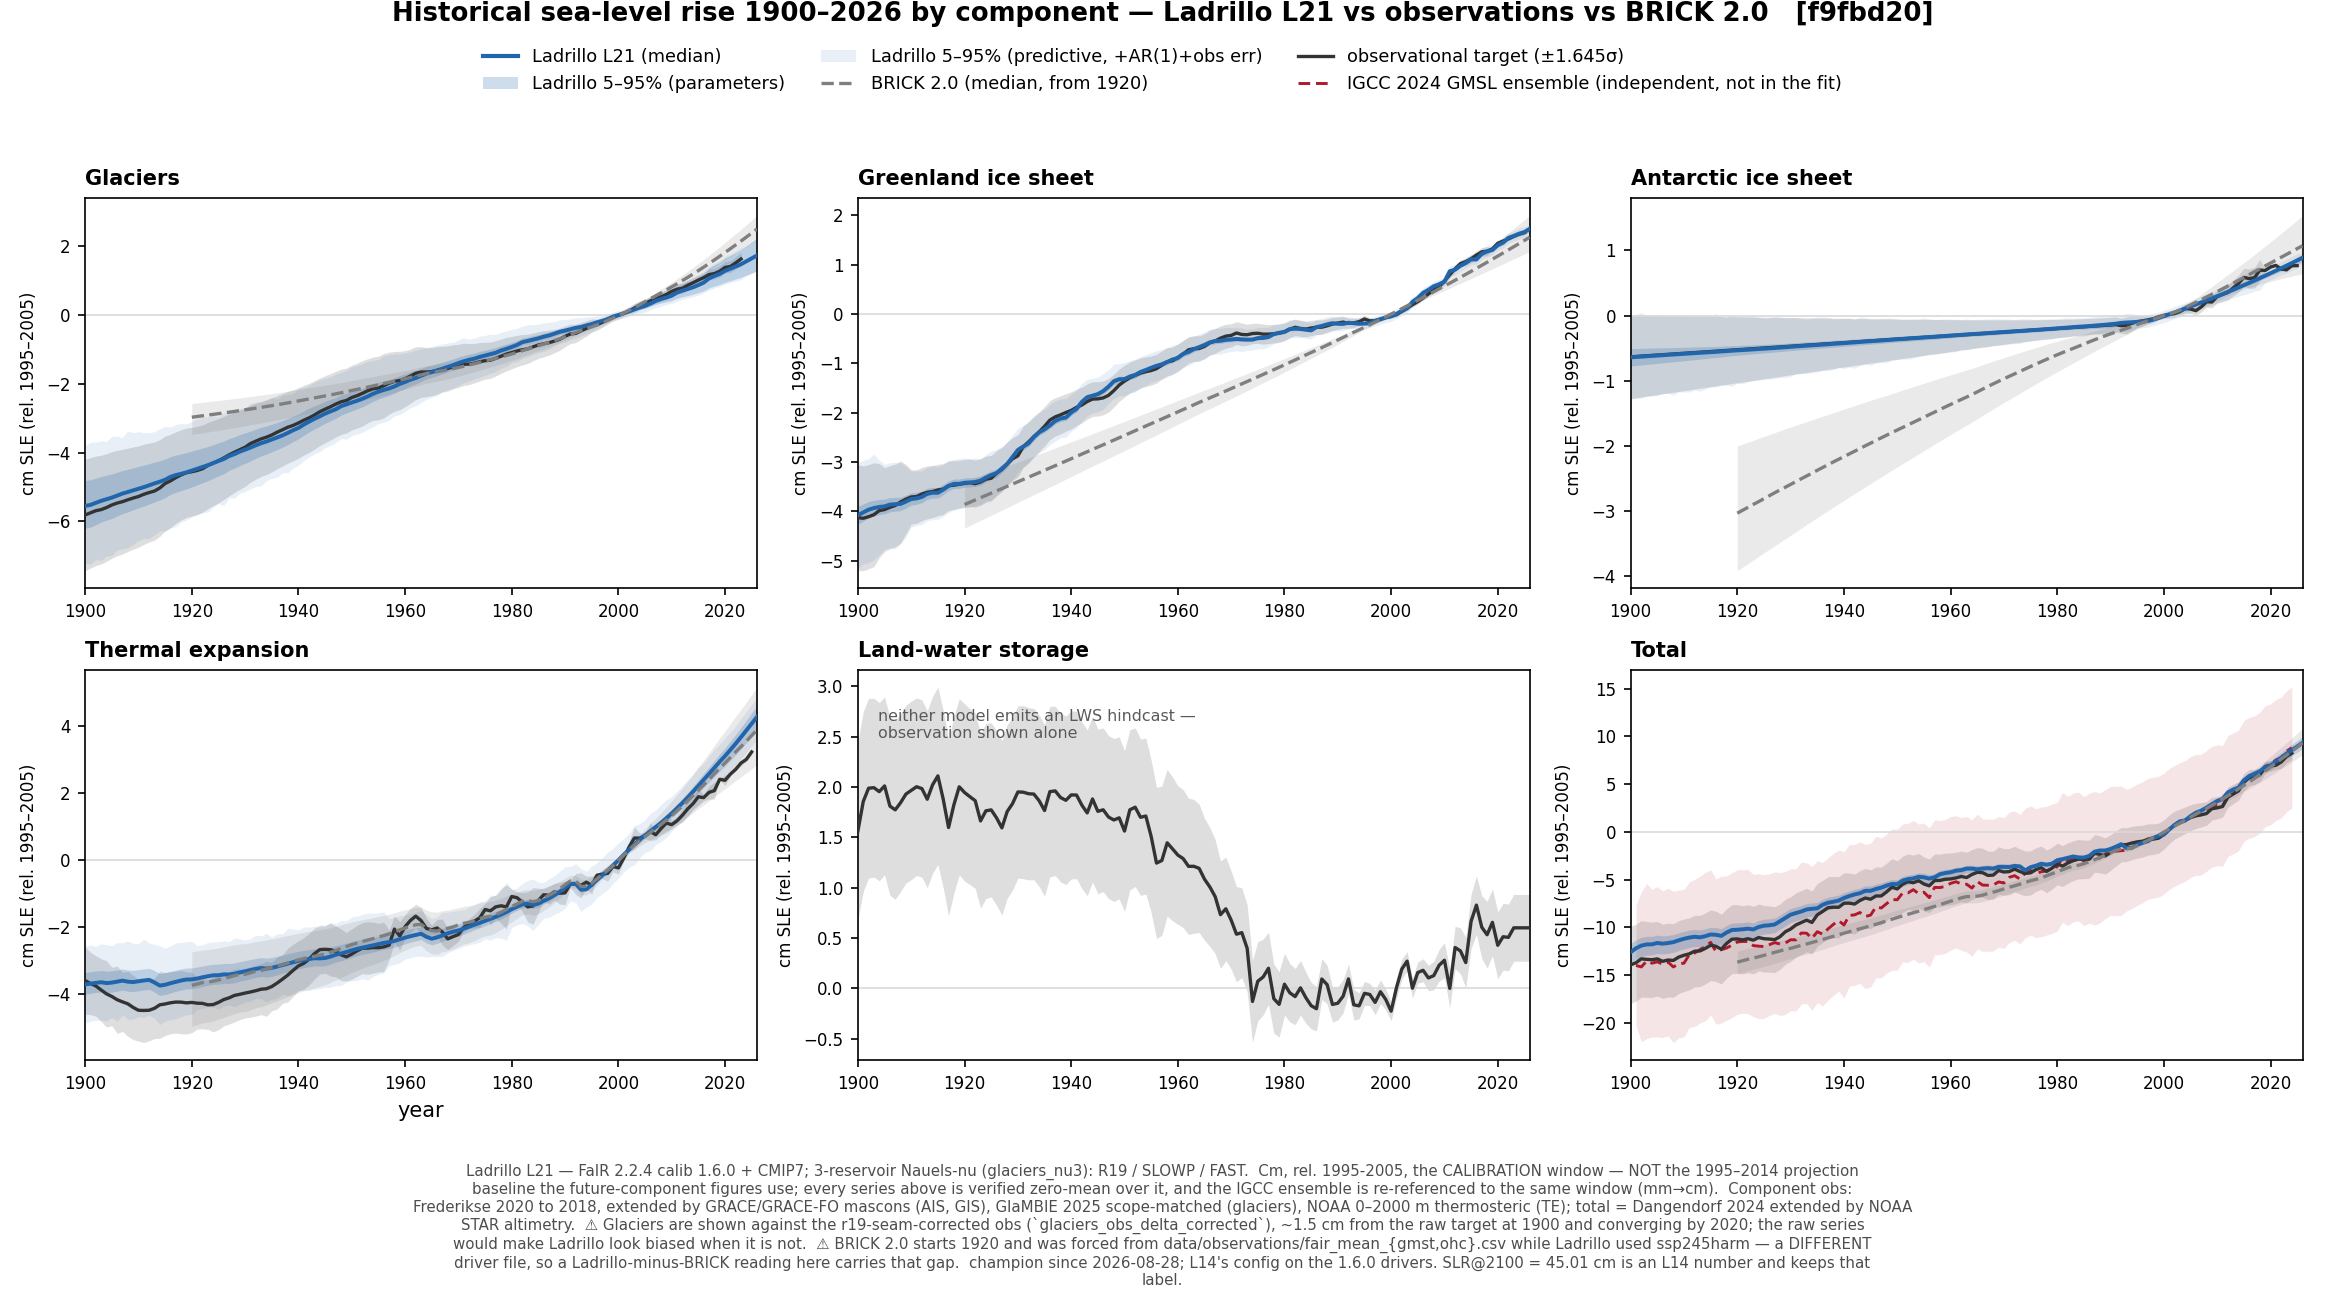
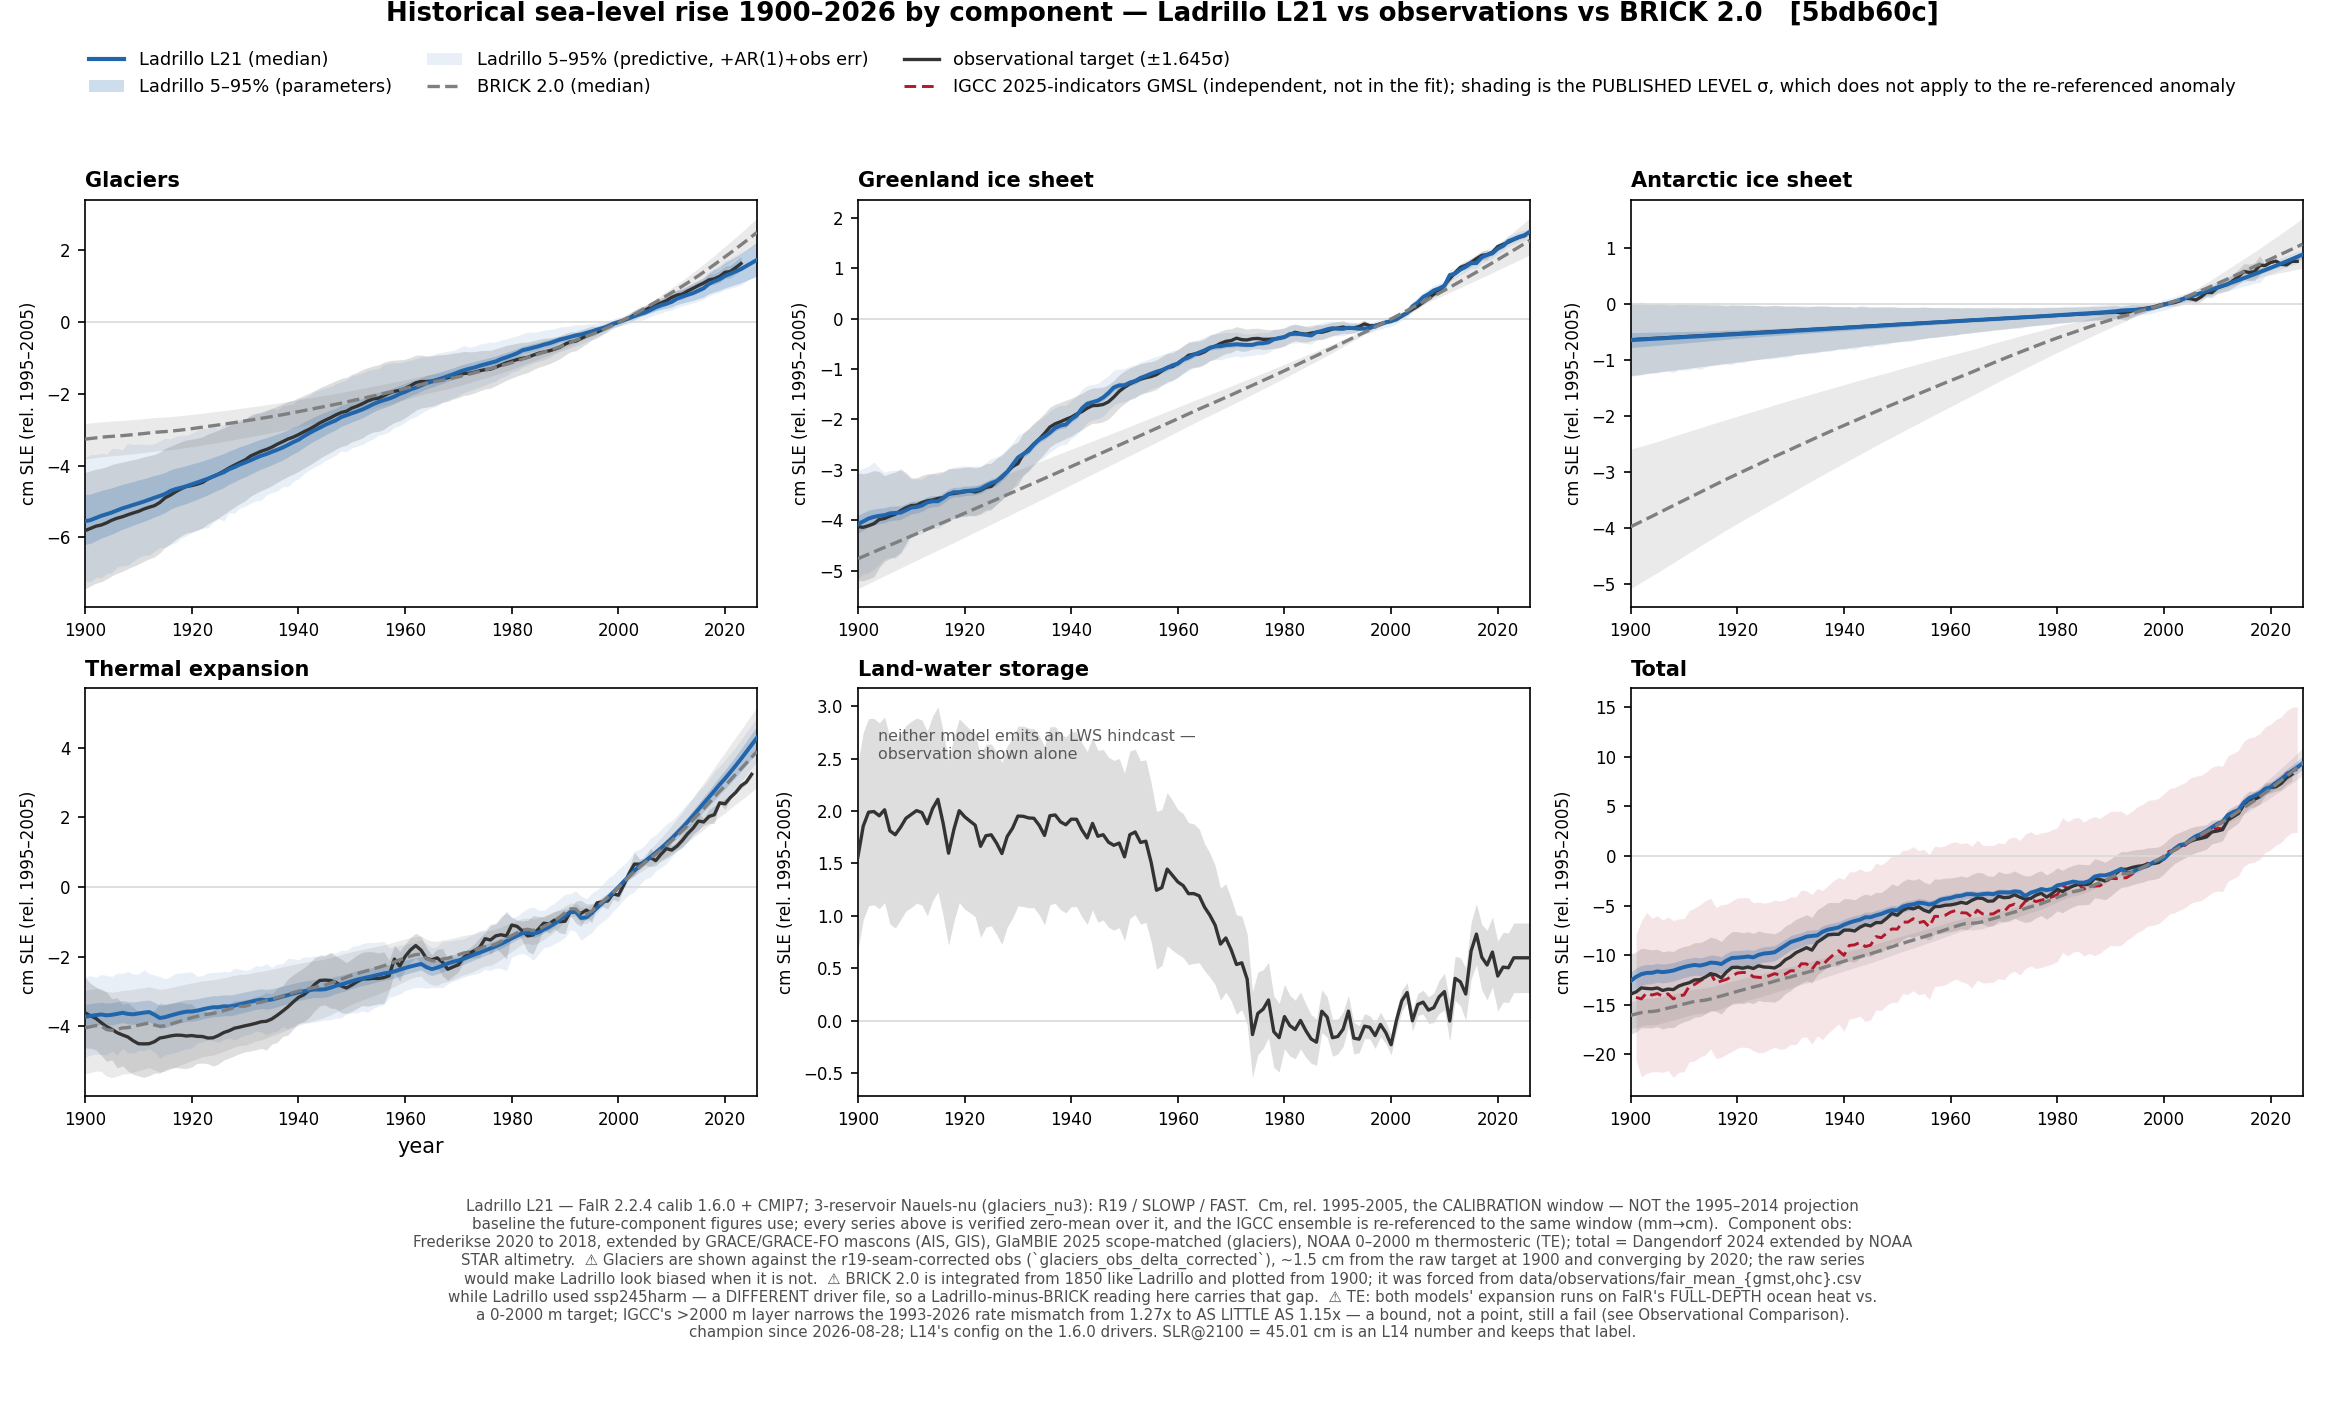
(a)+(b): match the BRICK save-span to Ladrillo's 1900, and fix the ragged-window epoch means
(a) SPAN. julia/posterior_predictive_oldbrick.jl saved 1920-2026 while the model runs 1850-2026.
That truncation set the evaluation window of scope_ladrillo_vs_brick20_scorecard.py, which scores
on `Ladrillo.index INTERSECT BRICK.index` -- so 1900-1919 was dropped from every RMSE ratio,
from the "full" column, and from the cumulative-rise sentence. Save-span now derives from
FY0 = 1900, matching posterior_predictive_ext.jl:33 and the panel's x-axis. A 1900-1919 window
is added to the scorecard rather than folded into "full".

⚠ THE BIT-IDENTITY GATE FAILED AND THE CONTROL EXONERATED THE CHANGE. 1920+ was expected to
return bit-identical (reref runs on the full 1850 vector before the subset); it moved 4.26e-02 cm.
Re-running with the span UNCHANGED at 1920 moves it MORE (5.05e-02). gsic/gis/te are EXACTLY zero
in both; only ais (3e-4) and total (5e-2) move => the jitter is LWS. posterior_predictive_oldbrick
calls MimiBRICK.get_model() directly, so it takes the unseeded LWS draw that brick_mengel.jl:40
documents as "legacy ... irreproducible -- not recommended". LOCKING THE SEED IS A METHODOLOGICAL
CHOICE AND IS NOT MADE HERE. Pre-change output + the control are quarantined with a README.

(b) EPOCH MEANS. The panel averaged the MODEL over 5 years while pandas' .mean() silently skipped
NaN on the OBS side, which stops early at the ragged modern end. Every mean is now taken over the
years where that arm and the obs are BOTH finite, and n is printed.
[…]

diff --git a/python/plot_hindcast_components.py b/python/plot_hindcast_components.py
@@ -28,7 +28,7 @@ adds the three things neither of those has:
 
 ⚠ THE TWO MODELS DO NOT SHARE A SCHEMA, A START YEAR, OR A DRIVER FILE.
   Ladrillo  1900-2026, `glaciers`/`te`, `_p05`, driven via ssp245harm
-  BRICK 2.0 1920-2026, `gsic`/`te`,     `_p5`,  forced on data/observations/fair_mean_{gmst,ohc}.csv
+  BRICK 2.0 1900-2026, `gsic`/`te`,     `_p5`,  forced on data/observations/fair_mean_{gmst,ohc}.csv
 The name mapping is a declared table below, never a string guess, and the different START
 YEARS are why the BRICK line simply begins later rather than being extrapolated back.
 ⚠ The two were forced from DIFFERENT driver files -- that is a real caveat on any
@@ -77,6 +77,11 @@ IGCC_CSV = os.path.join(lf.REPO, "data/observations/igcc2026_gmsl_annual.csv")
 
 BASE0, BASE1 = 1995, 2005          # the CALIBRATION window; see the docstring
 X0, X1 = 1900, 2026
+## ⚠ X0 is the PLOT span, and BOTH arms are integrated from 1850 -- neither "starts" here.
+## The caption used to say "BRICK 2.0 starts 1920", which was false: 1920 was the year its
+## driver happened to SAVE from, and it silently set the scorecard's evaluation window too.
+## Fixed 2026-09-10 by matching the BRICK save-span to Ladrillo's 1900. Any span text below
+## derives from X0 so a future change cannot leave the caption behind.
 ## Declared name mapping. Ladrillo/target/BRICK each spell some components differently, and
 ## a string guess here silently drops a panel.
 TGT_COL = {"glaciers": "gsic", "gis": "gis", "ais": "ais", "te": "steric",
@@ -205,7 +210,7 @@ axes[1, 0].set_xlabel("year")
 handles = [Line2D([], [], color=C_LAD, lw=2, label="Ladrillo %s (median)" % TAG),
            Patch(facecolor=C_LAD, alpha=0.22, label="Ladrillo 5–95% (parameters)"),
            Patch(facecolor=C_LAD, alpha=0.10, label="Ladrillo 5–95% (predictive, +AR(1)+obs err)"),
-           Line2D([], [], color=C_BRK, lw=1.6, ls="--", label="BRICK 2.0 (median, from 1920)"),
+           Line2D([], [], color=C_BRK, lw=1.6, ls="--", label="BRICK 2.0 (median)"),
            Line2D([], [], color=C_OBS, lw=1.6, label="observational target (±1.645σ)"),
            Line2D([], [], color=C_IGCC, lw=1.4, ls=(0, (4, 2)),
                   label="IGCC 2025-indicators GMSL (independent, not in the fit); shading is "
@@ -227,7 +232,8 @@ _cap = (
     "⚠ Glaciers are shown against the r19-seam-corrected obs (`glaciers_obs_delta_corrected`), "
     "~1.5 cm from the raw target at 1900 and converging by 2020; the raw series would make "
     "Ladrillo look biased when it is not.  "
-    "⚠ BRICK 2.0 starts 1920 and was forced from data/observations/fair_mean_{gmst,ohc}.csv "
+    "⚠ BRICK 2.0 is integrated from 1850 like Ladrillo and plotted from @@X0@@; it was forced "
+    "from data/observations/fair_mean_{gmst,ohc}.csv "
     "while Ladrillo used ssp245harm — a DIFFERENT driver file, so a Ladrillo-minus-BRICK "
     "reading here carries that gap.  "
     "⚠ TE: both models' expansion runs on FaIR's FULL-DEPTH ocean heat vs. a 0-2000 m target; "
@@ -235,6 +241,8 @@ _cap = (
     "1.15x — a bound, not a point, still a fail (see Observational Comparison).  %s"
     % (DESC["model"], DESC["calib"], DESC["glacier"], lf.CAL_BASELINE.capitalize(),
        DESC["note"]))
+_cap = _cap.replace("@@X0@@", str(X0))          # derived from the constant, not retyped
+assert "@@" not in _cap, "caption sentinel left unsubstituted"
 fig.text(0.5, 0.150, "\n".join(textwrap.wrap(_cap, 185)),
          fontsize=7.2, ha="center", va="top", color="0.3")
 fig.savefig(OUT, dpi=150)
@@ -244,25 +252,59 @@ print("wrote %s" % os.path.relpath(OUT, lf.REPO))
 ## The comparison-range rule: a "does it match" check over the historical period is made on
 ## at least a 5-year window, so interannual variability neither side controls cannot drive
 ## the answer. A "1900" label below is the 1898-1902 mean.
-print("\nmodel vs obs, 5-year means centred on each year (cm rel. %d-%d)" % (BASE0, BASE1))
-for y in (1900, 1950, 2000, 2024):
-    print("  @%d (%d-%d mean)" % (y, y - 2, y + 2))
+## ⛔⛔ MATCHED WINDOWS, AND THIS IS NOT A TIDY-UP. This block used to average the MODEL over
+## all HALF_WIDTH*2+1 years while pandas' .mean() SILENTLY SKIPPED NaN on the OBS side. At the
+## ragged modern end the obs stop early (the total target's Dangendorf splice ends 2024, GlaMBIE
+## 2023), so @2024 compared a 5-year model mean centred 2024 against a 3-year obs mean centred
+## 2023 -- on a series rising ~0.4 cm/yr. That put 0.387 cm of pure arithmetic into a 0.744 cm
+## number reported as a model excess (52% of it), and for glaciers, with only 2 obs years, the
+## artifact EXCEEDED the gap and set its SIGN.
+## The control that proved it was a mechanism and not a slip: the identical test at @1950 and
+## @2000, where the obs cover every year, returns EXACTLY zero.
+## ⇒ every mean below is taken over the years where THAT ARM and the obs are BOTH finite, and
+## the count is printed so a short window can never again pass as a full one.
+## Measured 2026-09-09c by python/diag_epoch_window_asymmetry.py; see [[like_for_like_forcing]].
+HALF_WIDTH = 2
+EPOCHS = (1900, 1950, 2000, 2024)
+
+
+def _matched(obs, arm, y):
+    """obs and arm means over the years BOTH are finite, plus that count. Never a bare
+    .mean() over a window -- that is the bug this function exists to prevent."""
+    w = range(y - HALF_WIDTH, y + HALF_WIDTH + 1)
+    yy = [t for t in w if t in obs.index and t in arm.index
+          and np.isfinite(obs.get(t, np.nan)) and np.isfinite(arm.get(t, np.nan))]
+    if not yy:
+        return None
+    return obs.loc[yy].mean(), arm.loc[yy].mean(), len(yy)
+
+
+print("\nmodel vs obs, %d-year means centred on each year (cm rel. %d-%d)"
+      % (2 * HALF_WIDTH + 1, BASE0, BASE1))
+print("  n = years actually used; obs is re-averaged on each arm's own matched window, so the\n"
+      "  obs column may differ between arms where their coverage differs. That is the point.")
+for y in EPOCHS:
+    print("  @%d (%d-%d window)" % (y, y - HALF_WIDTH, y + HALF_WIDTH))
     for comp in lf.COMPONENTS:
         ## ⚠ THE SAME CORRECTED OBS THE FIGURE PLOTS. Reading the raw target here made the
         ## table report a +1.68 cm glacier residual at 1900 against a panel that shows
         ## agreement -- a console summary that contradicts its own figure is worse than none.
         _os = LAD[OBS_LINE[comp]] if comp in OBS_LINE else TGT[TGT_COL[comp]]
-        o = _os.loc[y - 2:y + 2].mean()
-        row = "    %-22s obs %8.2f" % (lf.COMP_TITLE[comp], o)
-        if LAD_COL[comp]:
-            v = LAD["%s_p50" % LAD_COL[comp]].loc[y - 2:y + 2].mean()
-            row += "   Ladrillo %8.2f (%+.2f)" % (v, v - o)
-        else:
-            row += "   Ladrillo %8s        " % "n/a"
-        if BRK_COL[comp] and y >= 1922:
-            v = BRK["%s_p50" % BRK_COL[comp]].loc[y - 2:y + 2].mean()
-            row += "   BRICK 2.0 %8.2f (%+.2f)" % (v, v - o)
+        row = "    %-22s" % lf.COMP_TITLE[comp]
+        for arm_lbl, col_map, df, w in (("Ladrillo", LAD_COL, LAD, 8),
+                                        ("BRICK 2.0", BRK_COL, BRK, 8)):
+            if not col_map[comp]:
+                row += "   %s %*s        " % (arm_lbl, w, "n/a")
+                continue
+            r = _matched(_os, df["%s_p50" % col_map[comp]], y)
+            if r is None:
+                row += "   %s %*s        " % (arm_lbl, w, "--")
+                continue
+            o, v, n = r
+            row += "   %s obs %*.2f mod %*.2f (%+.2f, n=%d)" % (arm_lbl, w, o, w, v, v - o, n)
         print(row)
-    if y >= 1902:
-        g = IGCC_MEAN.loc[y - 2:y + 2].mean()
-        print("    %-22s IGCC %7.2f  (independent check on the total)" % ("", g))
+    r = _matched(TGT[TGT_COL["total"]], IGCC_MEAN, y)
+    if r is not None:
+        o, g, n = r
+        print("    %-22s IGCC %7.2f vs obs %7.2f (%+.2f, n=%d)  (independent check on the total)"
+              % ("", g, o, g - o, n))

diff --git a/python/scope_ladrillo_vs_brick20_scorecard.py b/python/scope_ladrillo_vs_brick20_scorecard.py
@@ -63,7 +63,16 @@ COMPONENTS = [("AIS", "ais", "ais", "ais"),
 # satellite era — so "TE is the one regression" is a statement about the
 # pre-1993 record, not a uniform one. Splitting at 1950 and 1993 separates the
 # sparse-obs era, the pre-satellite era, and the altimetry era.
-WINDOWS = [("full", None), ("1920-1949", (1920, 1949)),
+## ⭐ 1900-1919 ADDED 2026-09-10. It was absent only because the BRICK 2.0 driver SAVED from
+## 1920 while running from 1850, and this script scores on `Ladrillo.index INTERSECT
+## BRICK.index` -- so the truncation, not a scientific choice, set the earliest window AND the
+## "full" column. With the BRICK span matched to Ladrillo's 1900 the era is now available, and
+## it is the era where the doc claims the gain is largest, so it should be shown, not folded
+## into "full".
+## ⚠ THE VINTAGE CAVEAT GETS HEAVIER HERE, NOT LIGHTER: BRICK 2.0 runs on its OWN published
+## posterior against our extended targets, so part of its bias is target vintage and that
+## favours Ladrillo -- most of all in the earliest, sparsest-obs window. Report per window.
+WINDOWS = [("full", None), ("1900-1919", (1900, 1919)), ("1920-1949", (1920, 1949)),
            ("1950-1992", (1950, 1992)), ("1993-2026", (1993, 2026))]
 
 
